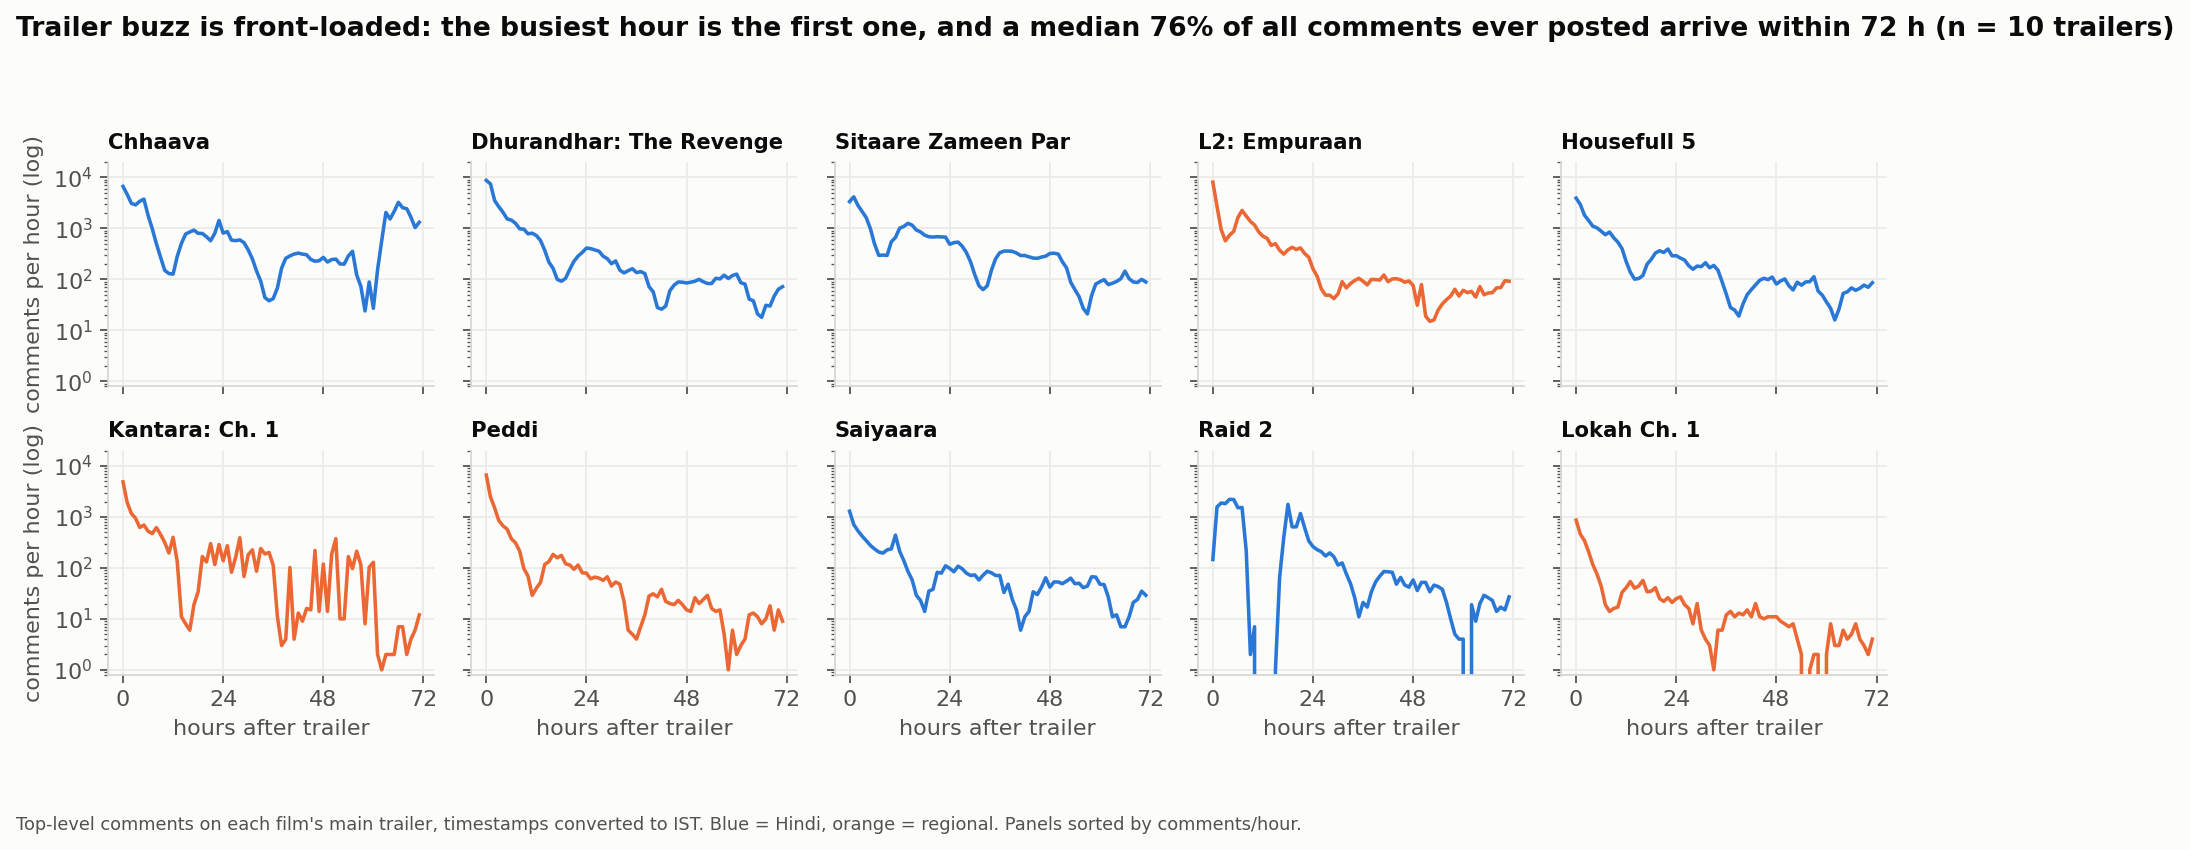
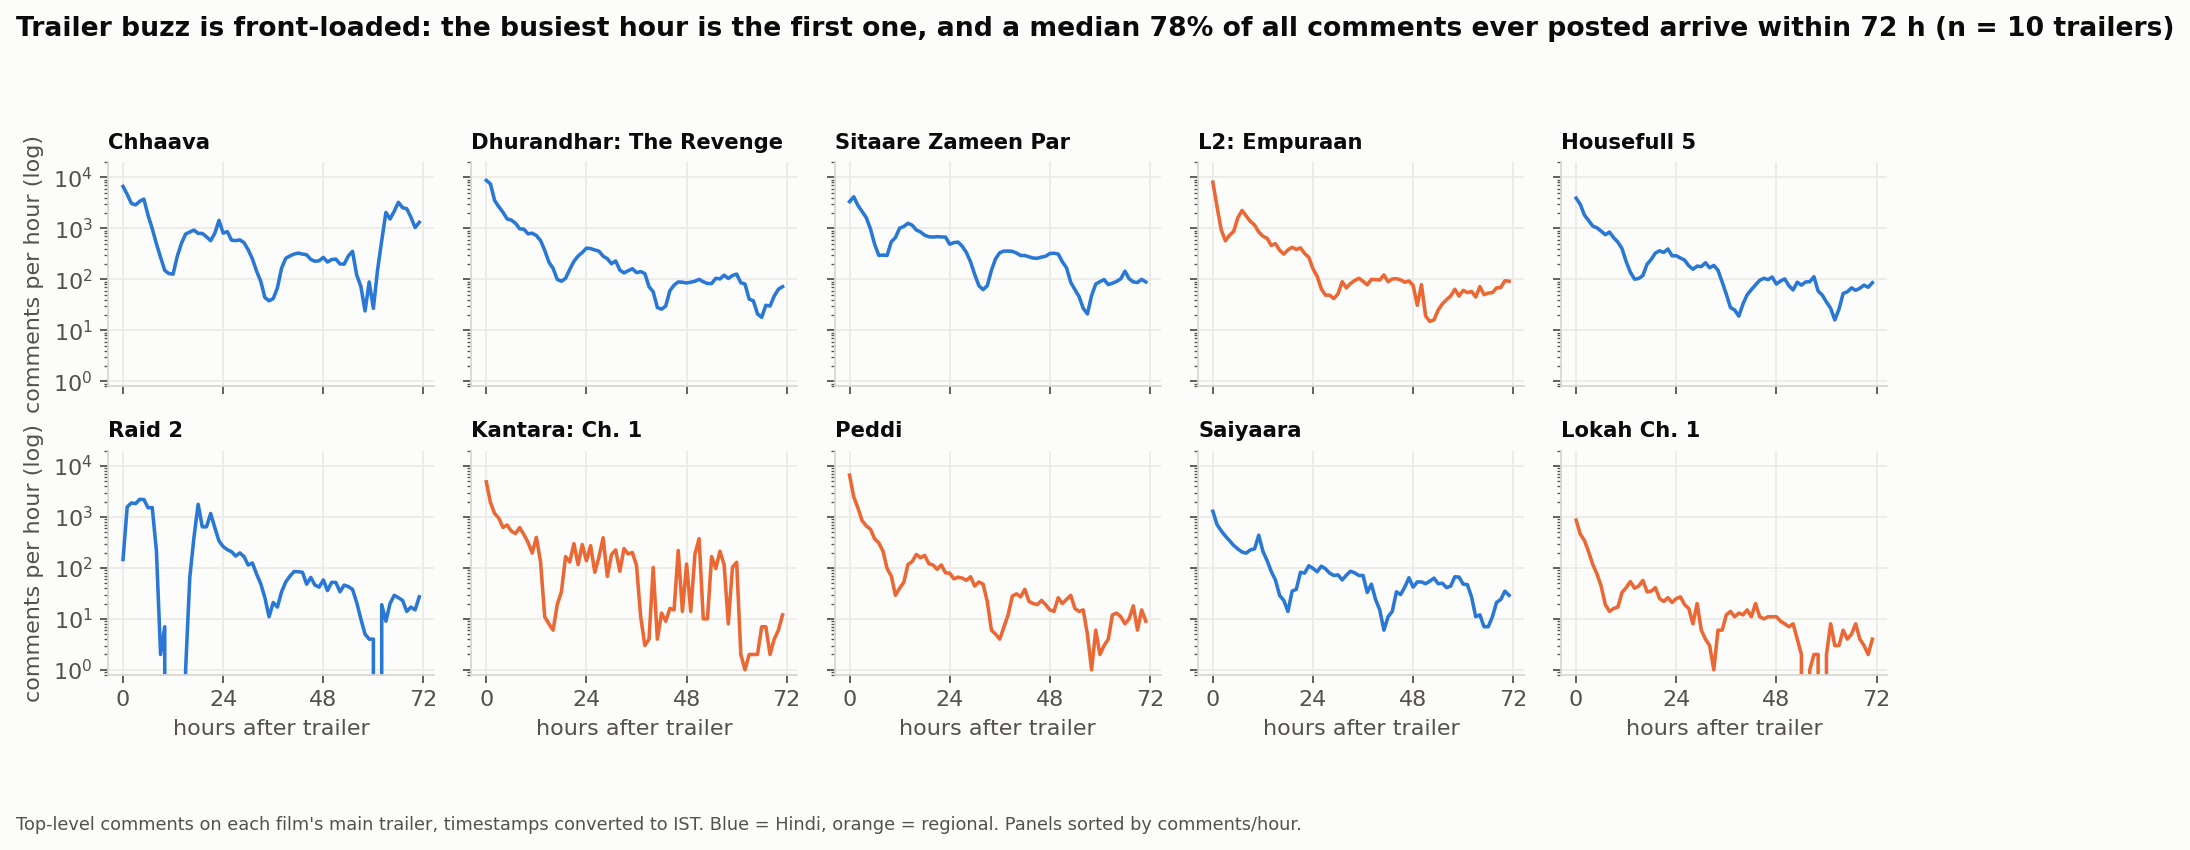
Re-run SQL after trailer-start fix; shorter Buzz Index chart title

diff --git a/src/11_charts.py b/src/11_charts.py
@@ -193,11 +193,13 @@ def chart_buzz_loo(loo, f):
     ax.set_xticks(range(1, 11)); ax.set_yticks(range(1, 11))
     ax.set_xlabel("Buzz Index rank (1 = most buzz), each film scored by an index fitted WITHOUT it")
     ax.set_ylabel("Actual first-weekend rank (1 = biggest)")
-    ax.set_title(f"A Buzz Index fitted on the other 9 films called {hits} of 10 openings\nabove/below median — it missed {' and '.join(misses)}")
+    verdict = "barely better than a coin toss" if hits <= 6 else "better than a coin toss, on a tiny sample"
+    ax.set_title(f"A Buzz Index fitted on the other 9 films called {hits} of 10 openings\nabove/below median — {verdict}")
     ax.scatter([], [], color=INK_2, marker="o", label="call right"); ax.scatter([], [], color=INK_2, marker="X", label="call wrong")
     ax.scatter([], [], color=BLUE, label="Hindi"); ax.scatter([], [], color=ORANGE, label="Regional")
     ax.legend(loc="upper right", frameon=False, fontsize=8.5)
-    footnote(fig, f"Leave-one-out test, mean rank error {loo.rank_error.mean():.1f} places. A coin toss would get ~5 of 10 right. n = 10 is very small.")
+    footnote(fig, f"Leave-one-out test, mean rank error {loo.rank_error.mean():.1f} places. Missed: {', '.join(misses)}. "
+                  "A coin toss would get ~5 of 10 right. n = 10 is very small.")
     save(fig, "06_buzz_index_leave_one_out.png")
 
 

diff --git a/outputs/tables/sql_query_results.md b/outputs/tables/sql_query_results.md
@@ -48,16 +48,20 @@ ORDER BY total_trailer_views DESC
 | l2_empuraan            | Malayalam  |                  1 |           1.76834e+07 |                      43.75 |
 | lokah_chapter_1        | Malayalam  |                  1 |           1.63116e+07 |                      16.38 |
 
-## Q3. (JOIN + GROUP BY) Velocity: how many comments arrived in the first 72 hours after the main trailer went live, and the average comments per hour in that window.
+## Q3. (JOIN + GROUP BY) Velocity: how many comments arrived in the first 72 hours after the main trailer went live, and the average comments per hour in that window. "Went live" = the earlier of the API publish time and the first comment (Raid 2's trailer was commented on 20.7 h before its official publish time).
 
 ```sql
 SELECT c.film_id,
        COUNT(*)                                   AS comments_first_72h,
        ROUND(COUNT(*) / 72, 1)                    AS comments_per_hour_72h
 FROM comments c
-JOIN trailers t ON t.film_id = c.film_id AND t.is_main_trailer = 1
-WHERE c.published_ts >= t.publish_ts
-  AND c.published_ts <  t.publish_ts + INTERVAL 72 HOUR
+JOIN (SELECT t.film_id, LEAST(t.publish_ts, MIN(c2.published_ts)) AS start_ts
+      FROM trailers t
+      JOIN comments c2 ON c2.film_id = t.film_id
+      WHERE t.is_main_trailer = 1
+      GROUP BY t.film_id, t.publish_ts) s ON s.film_id = c.film_id
+WHERE c.published_ts >= s.start_ts
+  AND c.published_ts <  s.start_ts + INTERVAL 72 HOUR
 GROUP BY c.film_id
 ORDER BY comments_first_72h DESC
 ```
@@ -65,14 +69,14 @@ ORDER BY comments_first_72h DESC
 | film_id                |   comments_first_72h |   comments_per_hour_72h |
 |:-----------------------|---------------------:|------------------------:|
 | chhaava                |                65719 |                   912.8 |
-| dhurandhar_the_revenge |                41566 |                   577.3 |
+| dhurandhar_the_revenge |                41548 |                   577.1 |
 | sitaare_zameen_par     |                38047 |                   528.4 |
 | l2_empuraan            |                31536 |                   438   |
 | housefull_5            |                23897 |                   331.9 |
-| kantara_chapter_1      |                18381 |                   255.3 |
+| raid_2                 |                21632 |                   300.4 |
+| kantara_chapter_1      |                18778 |                   260.8 |
 | peddi                  |                16292 |                   226.3 |
 | saiyaara               |                 8302 |                   115.3 |
-| raid_2                 |                 5575 |                    77.4 |
 | lokah_chapter_1        |                 3052 |                    42.4 |
 
 ## Q4. (JOIN + GROUP BY) Do Hindi and regional films get different trailer sentiment? Mean VADER score, ignoring comments VADER could not read (score exactly 0).
